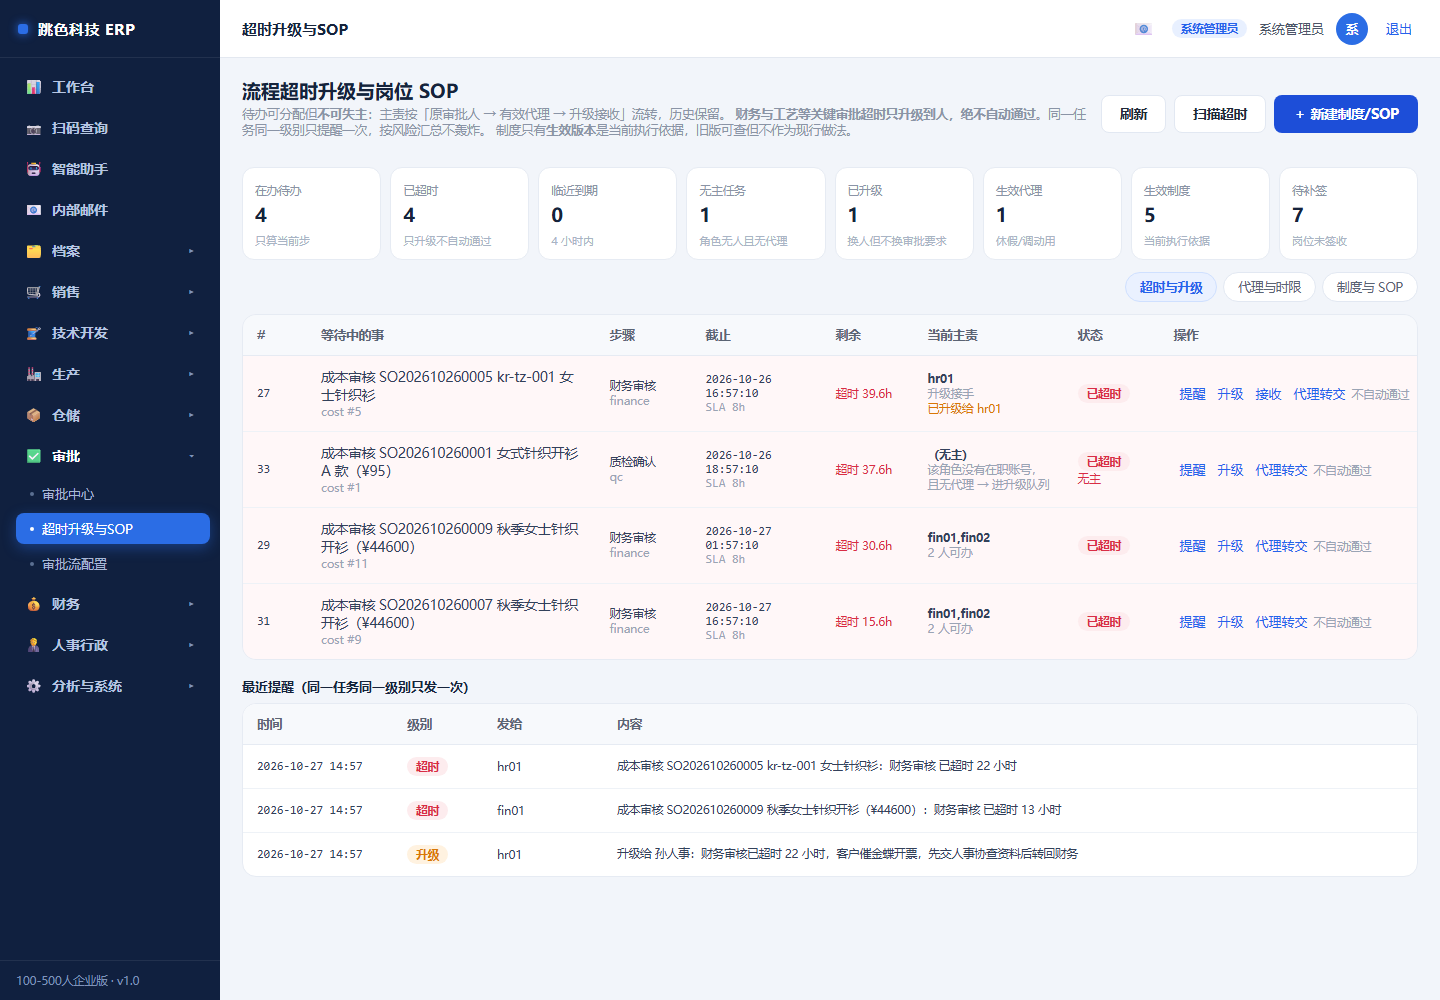
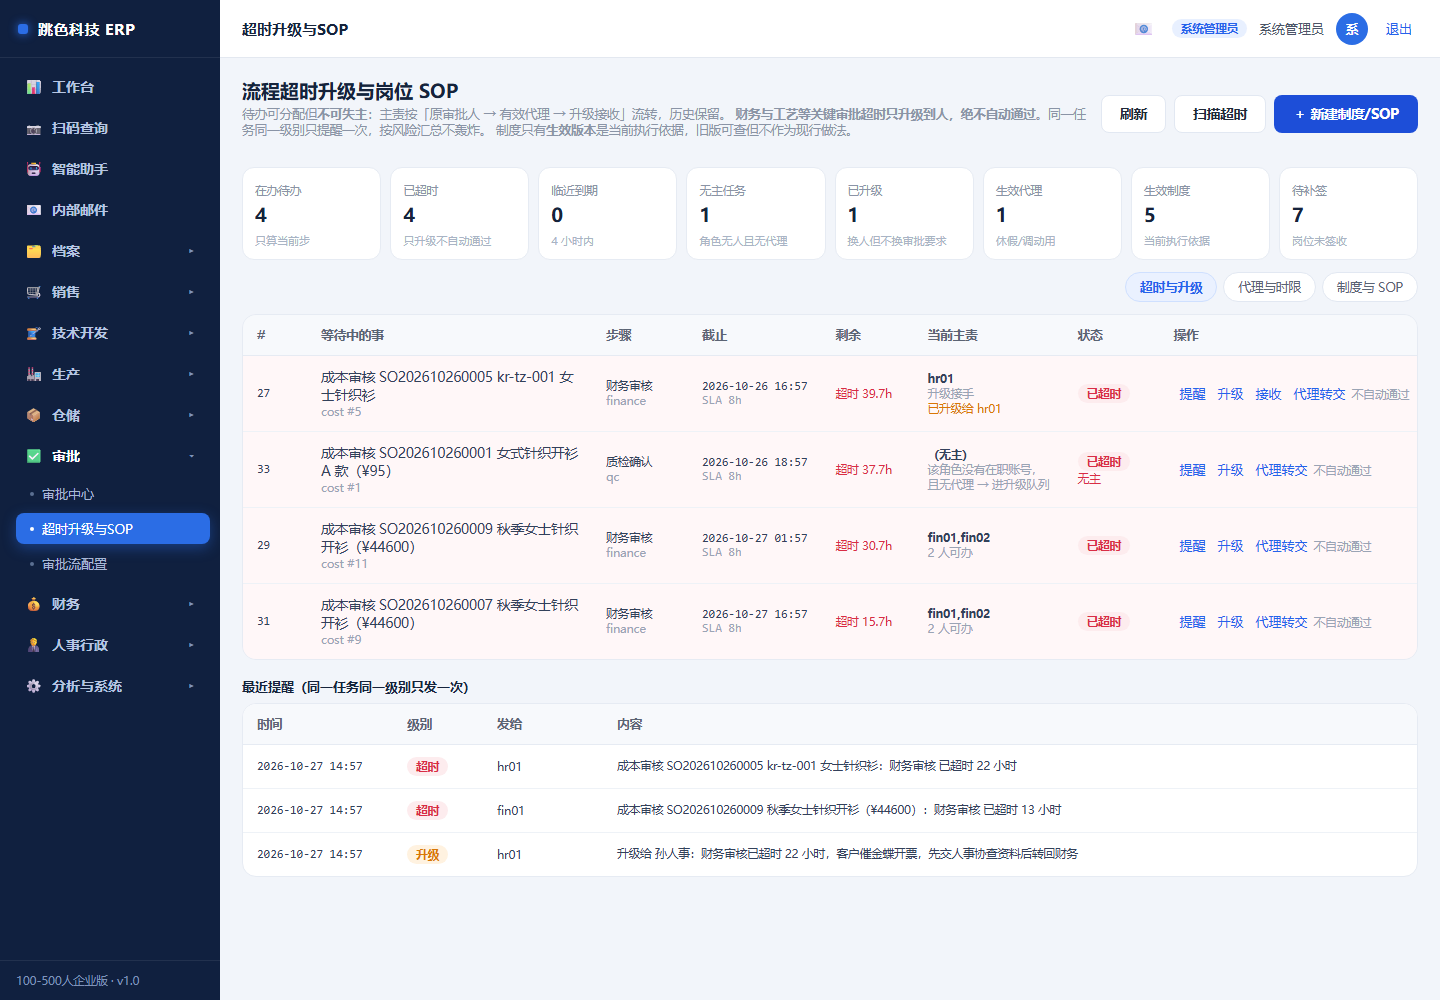
fix(time): 剩余原始时间输出统一走 $fmt，截止列不再折行
上一提交已把 76 处 slice 截断换成 $fmt，但还有一批「直接甩原始 _at 字段」
的地方（值是本地字符串、不带时区，所以不差 8 小时，但会带秒且挤成两行）：
- Process.vue 截止时间（2026-10-26 16:57:10 折成两行）
- Schedule.vue 排程起止
- Mail.vue 期限 / 代理起止
- AiCenter.vue 建议要求期限

统一走 $fmt（无时区的值原样透传，只截到分钟），截止列加内联 nowrap
（全局 .nowrap 被 .data td 的选择器权重压住，类名加了不生效）。

验证：冒烟 1346/1346；46 页巡检 0 异常；截图 shots/tz/01 截止列已单行

diff --git a/frontend/src/views/Mail.vue b/frontend/src/views/Mail.vue
@@ -64,7 +64,7 @@
             <div class="t-top">
               <span class="tag blue">{{ t.task_no }}</span>
               <b>{{ t.title }}</b>
-              <span class="muted">期限 {{ t.due_at || '未定' }}</span>
+              <span class="muted">期限 {{ t.due_at ? $fmt(t.due_at) : '未定' }}</span>
             </div>
             <div class="t-req">{{ t.requirement || '（未填完成要求）' }}</div>
             <div class="t-foot">
@@ -156,7 +156,7 @@
               <b>{{ cur.task.title }}</b>
               <span class="tag" :class="cur.task.status === 'done' ? 'green' : 'orange'">{{ cur.task.status === 'done' ? '已完成' : '待办' }}</span>
             </div>
-            <div class="t-req">主责 {{ cur.task.owner }} · 期限 {{ cur.task.due_at || '未定' }} · {{ cur.task.requirement || '未填完成要求' }}</div>
+            <div class="t-req">主责 {{ cur.task.owner }} · 期限 {{ cur.task.due_at ? $fmt(cur.task.due_at) : '未定' }} · {{ cur.task.requirement || '未填完成要求' }}</div>
             <div v-if="cur.task.status !== 'done'" class="t-foot">
               <span class="muted">一项交付物一名主责，不许抄送人人有份</span>
               <button class="link-btn" @click="doneTask(cur.task)">标记完成</button>
@@ -417,7 +417,7 @@
                   <td>{{ d.owner }}</td>
                   <td>{{ d.agent }}</td>
                   <td>{{ d.scope === 'all' ? '全部' : d.scope === 'ack' ? '只代确认' : '只代发' }}</td>
-                  <td class="muted">{{ d.start_at }} ~ {{ d.end_at }}</td>
+                  <td class="muted nowrap">{{ $fmt(d.start_at) }} ~ {{ $fmt(d.end_at) }}</td>
                   <td>
                     <span class="tag" :class="d.effective ? 'green' : 'gray'">{{ d.effective ? '有效' : d.expired ? '已过期' : d.status }}</span>
                   </td>

diff --git a/frontend/src/views/Schedule.vue b/frontend/src/views/Schedule.vue
@@ -164,8 +164,8 @@
                 <td class="tiny">{{ t.work_center }}</td>
                 <td class="num tiny">{{ num(t.qty) }}</td>
                 <td class="num tiny">{{ num(t.est_hours) }}<span v-if="t.setup_hours" class="muted"> +换款{{ num(t.setup_hours) }}</span></td>
-                <td class="tiny">{{ t.start_at }}</td>
-                <td class="tiny">{{ t.end_at }}</td>
+                <td class="tiny nowrap">{{ $fmt(t.start_at) }}</td>
+                <td class="tiny nowrap">{{ $fmt(t.end_at) }}</td>
                 <td class="tiny" :class="{ red: !t.finish_by_due }">{{ t.due_date || '—' }}</td>
                 <td class="num tiny">{{ t.segments > 1 ? t.segments + ' 段' : '1 段' }}</td>
                 <td>

diff --git a/frontend/src/views/Process.vue b/frontend/src/views/Process.vue
@@ -53,7 +53,7 @@
                 <div class="tiny muted">{{ t.target_type }} #{{ t.target_id }}</div>
               </td>
               <td class="tiny">{{ t.step_name }}<div class="muted">{{ t.role }}</div></td>
-              <td class="mono tiny">{{ t.due_at || '-' }}<div class="muted">SLA {{ t.sla_hours }}h</div></td>
+              <td class="mono tiny" style="white-space: nowrap">{{ $fmt(t.due_at) }}<div class="muted">SLA {{ t.sla_hours }}h</div></td>
               <td class="tiny">
                 <span v-if="t.hours_left === null" class="muted">-</span>
                 <span v-else-if="t.hours_left < 0" class="amt-red">超时 {{ Math.abs(t.hours_left) }}h</span>

diff --git a/frontend/src/views/AiCenter.vue b/frontend/src/views/AiCenter.vue
@@ -692,7 +692,7 @@
           <div class="wk-sec" v-if="wk.content.open.length">
             <div class="wk-title">未完成（当前待办）</div>
             <div v-for="(d, i) in wk.content.open" :key="'o' + i" class="wk-item">
-              · {{ d.label }}<span v-if="d.due_at" class="tiny muted"> · 要求 {{ d.due_at }} 前</span>
+              · {{ d.label }}<span v-if="d.due_at" class="tiny muted"> · 要求 {{ $fmt(d.due_at) }} 前</span>
             </div>
           </div>
 
